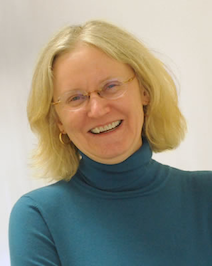
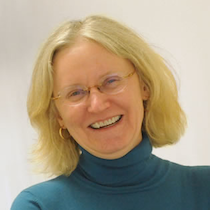
tidy up

diff --git a/assets/css/cu.css b/assets/css/cu.css
@@ -10,13 +10,12 @@ ul {
 
 li {
   list-style-type: none;
-  font-size: 100%;
 }
 
 img[src*="#faculty"] {
    width:128px;
    height:128px;
-   border: 1px solid black;
+   /* border: 1px solid black; */
    border-radius: 50%;
    display: inline-block;
 }
@@ -42,6 +41,5 @@ li a:active {
 }
 
 li strong {
-    font-size: 100%;
     font-weight: 540;
 }
